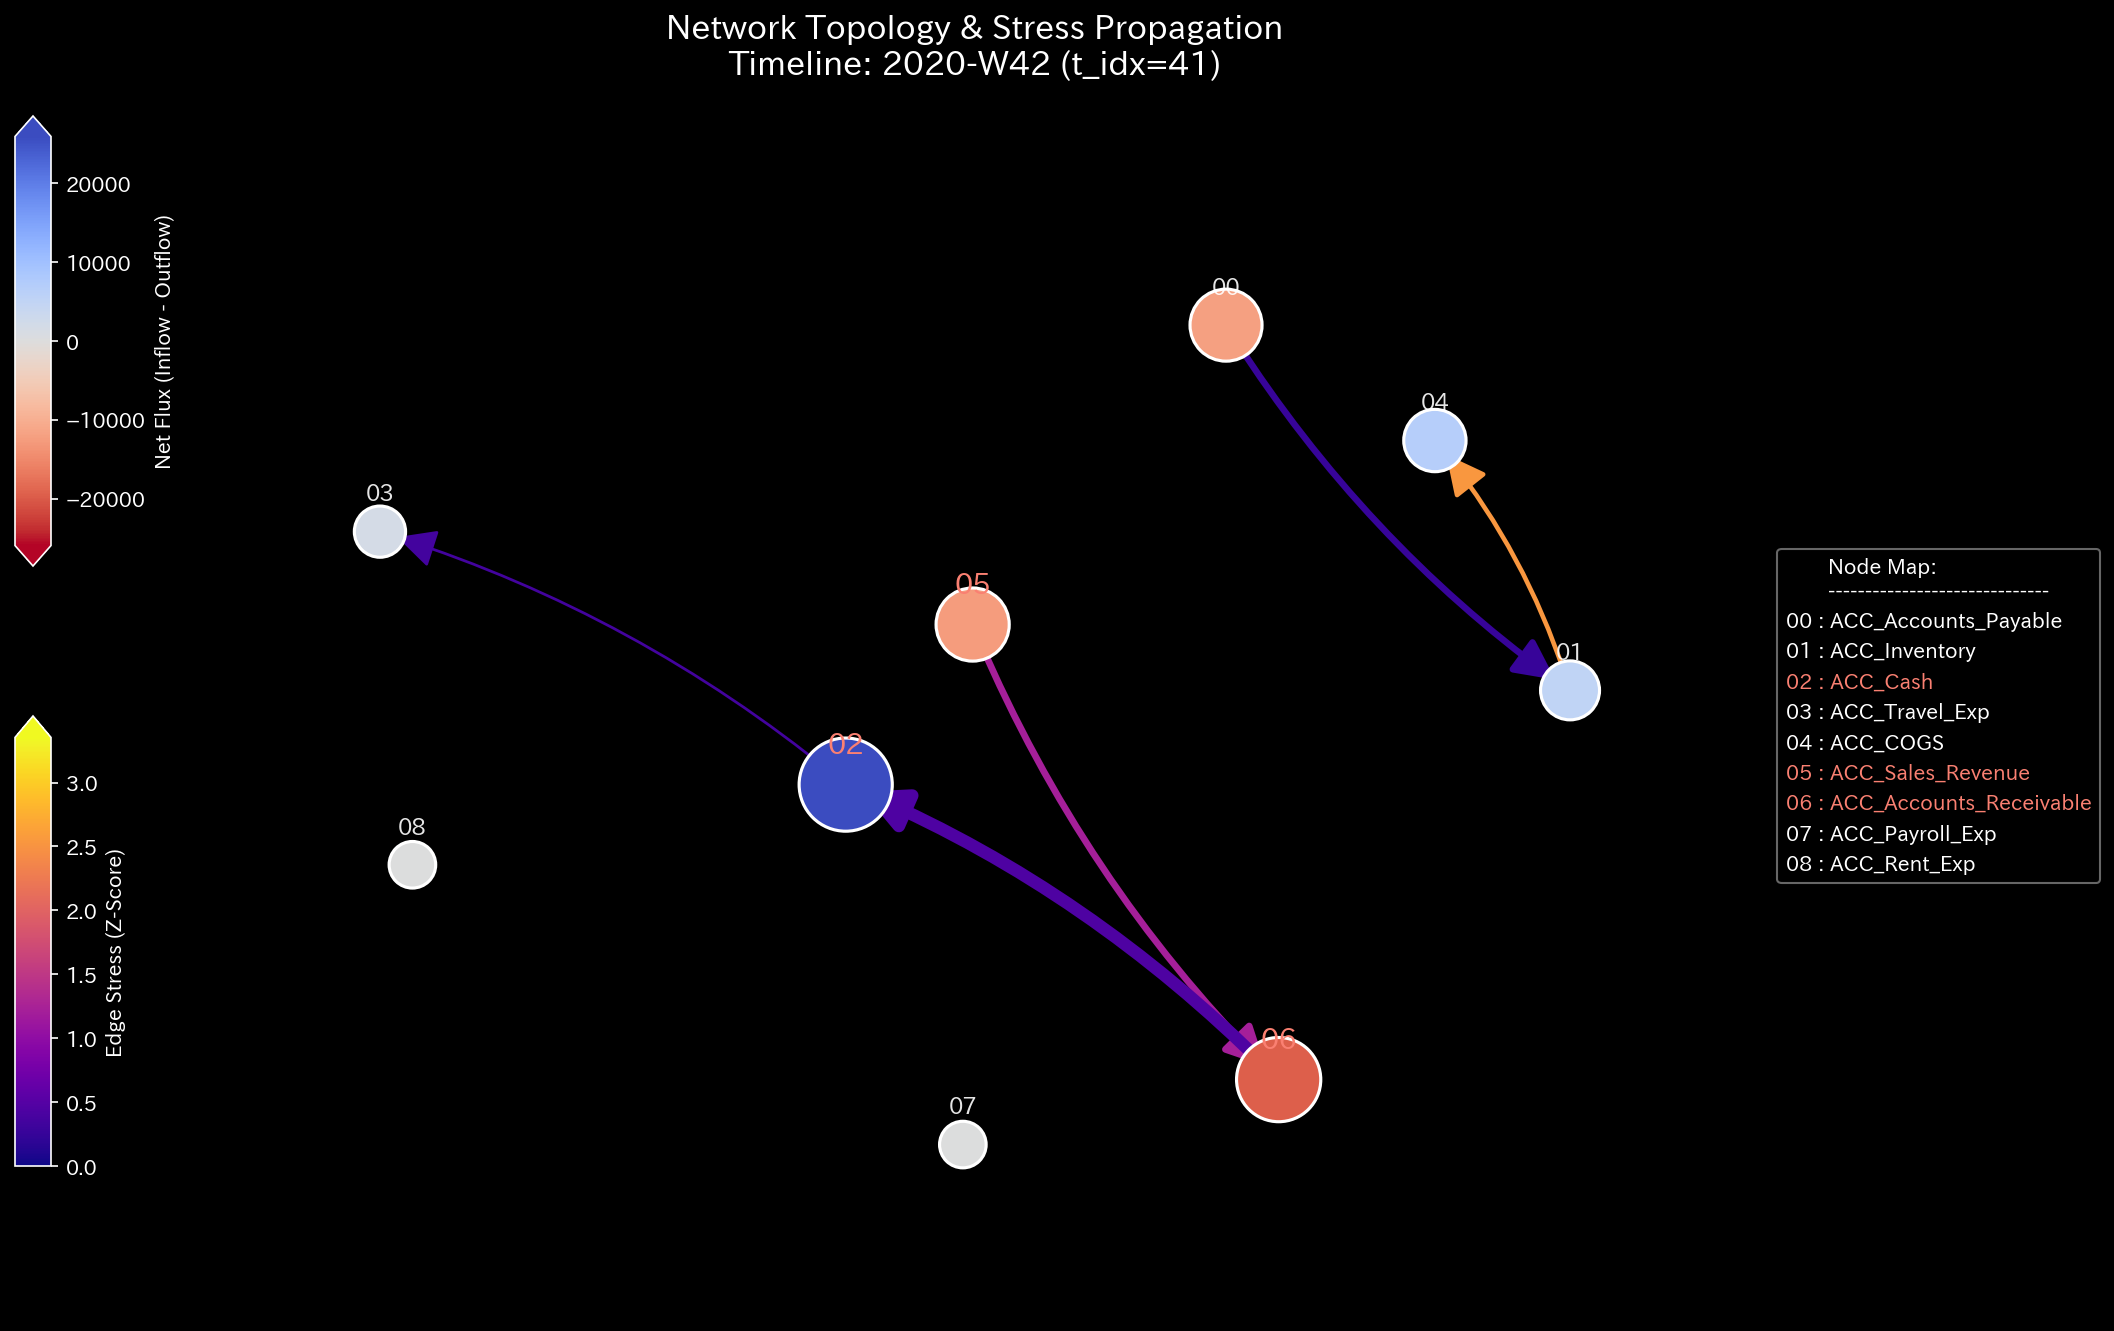
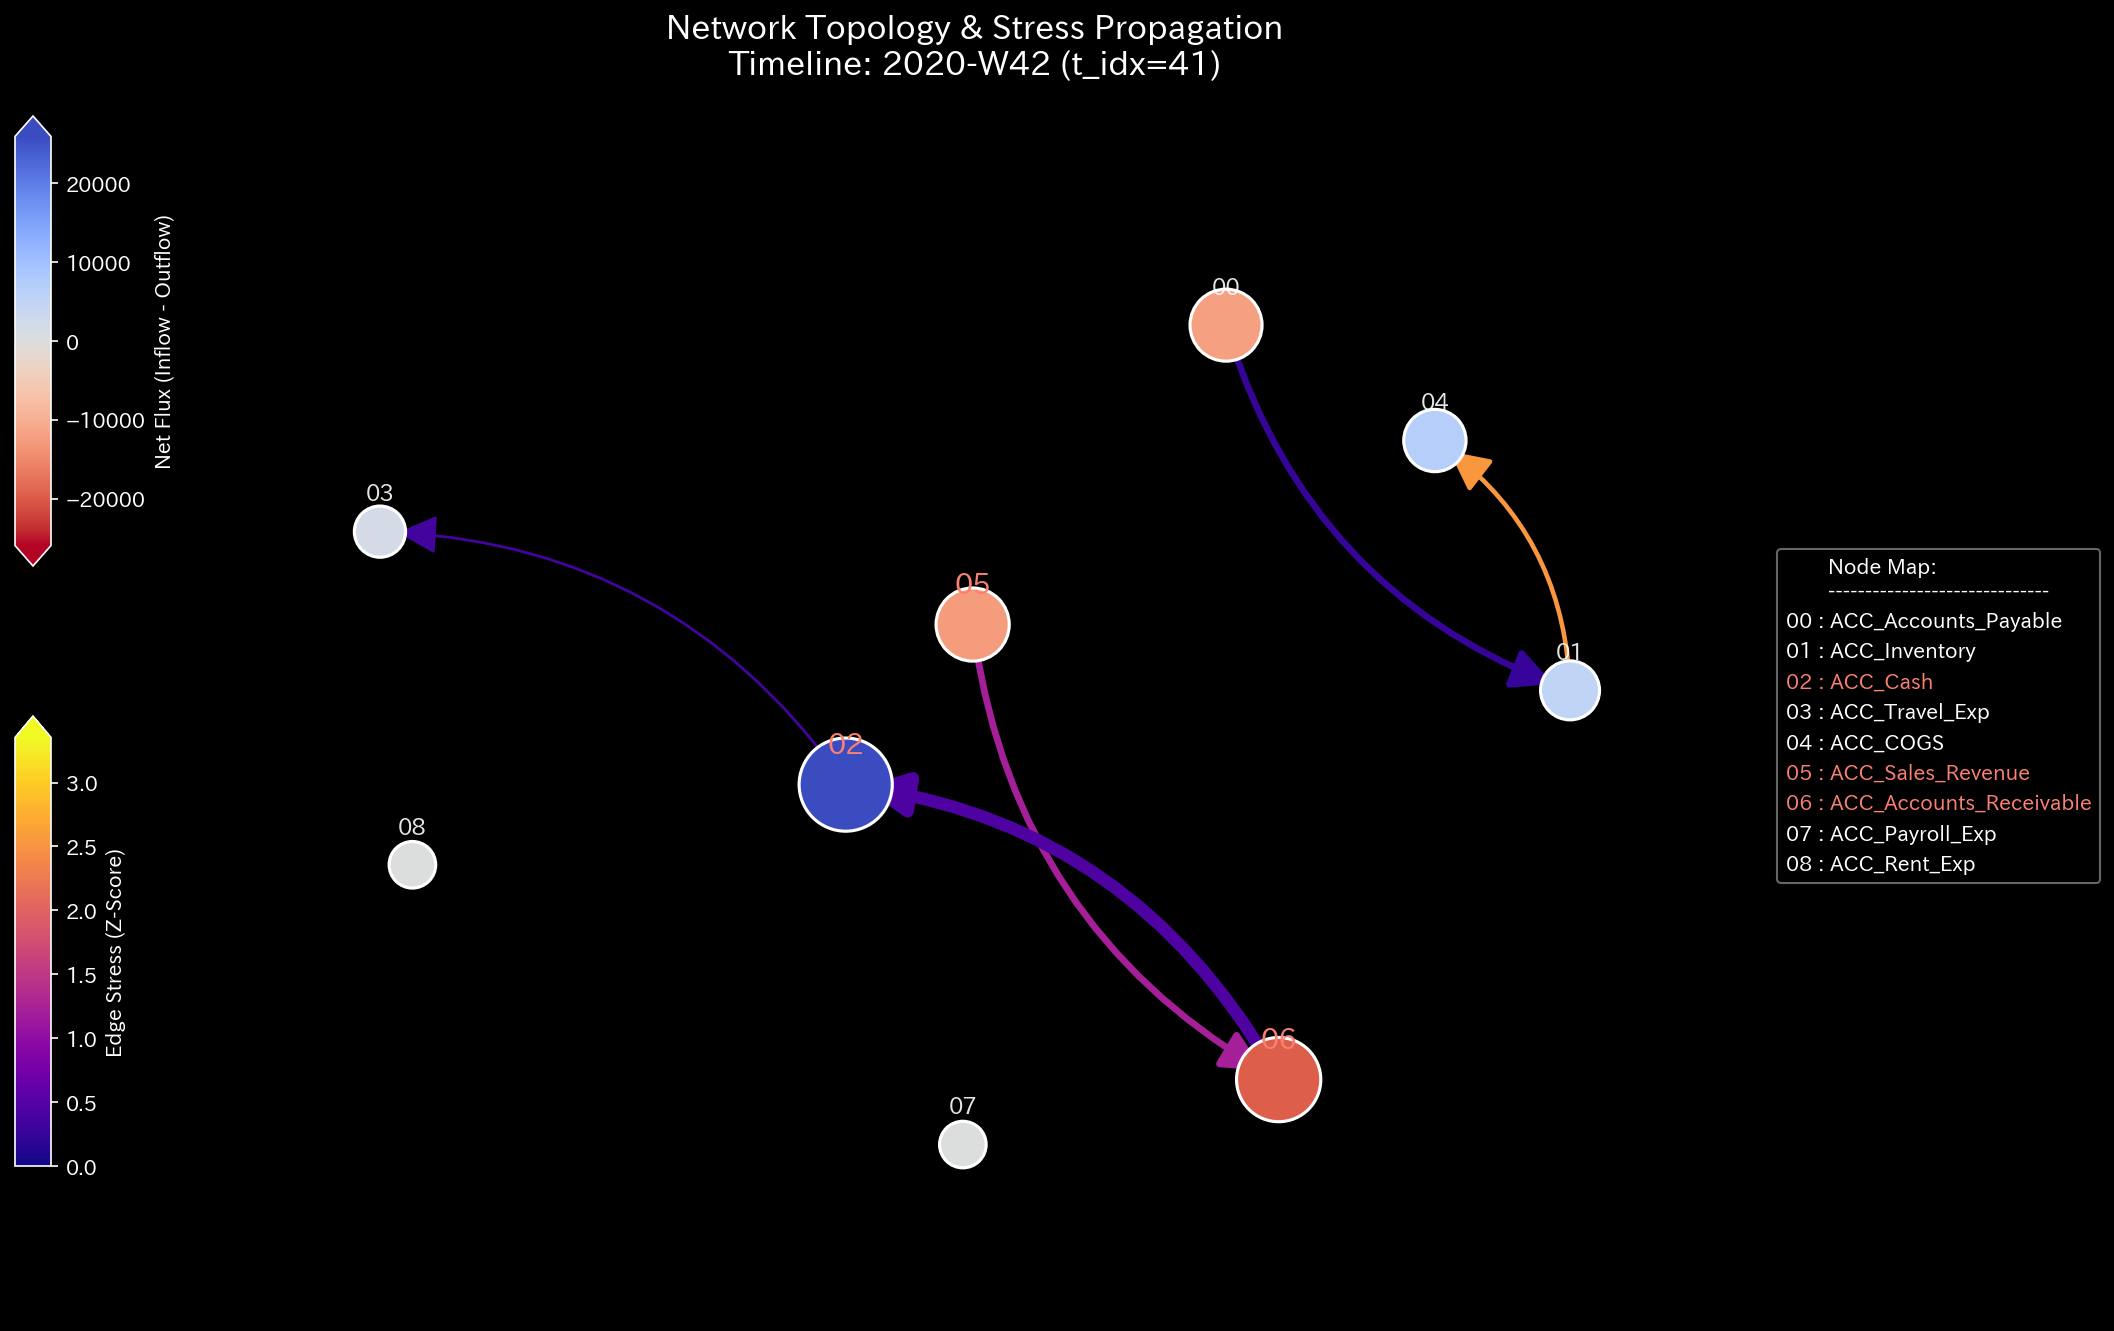
Insert the exactly right network-topology graphs on exact time stamp.
Python is zero-indexed programming system.

diff --git a/docs/LLM_Diagnostic_Manual.md b/docs/LLM_Diagnostic_Manual.md
@@ -25,6 +25,12 @@ This JSON payload contains:
 2. **`financial_baseline`**: The traditional Phase 0.5 Financial Statements (B/S and P/L).
 3. **`detected_pathologies`**: The Python script's initial hardcoded warnings.
 
+### ⚠ [CRITICAL WARNING] Temporal Indexing (Zero-Indexed `t_idx`)
+The temporal index (`t_idx`) output by the TLU engine is derived from Python and is **Zero-Indexed**.
+* `t_idx = 0` corresponds to **Week 1 (or Frame 1)**.
+* `t_idx = 40` corresponds to **Week 41 (or Frame 41)**.
+When citing image files (e.g., `t.00040.png`) or referencing specific weeks in your report, you must **ABSOLUTELY remember that there is always a difference of 1 between `t_idx` and the actual Week/Frame.** Failing to recognize this will result in misidentifying the exact timing of anomalies by one week.
+
 ---
 
 ## 3. The Meta-Diagnostic Decision Matrix (Core Logic)
